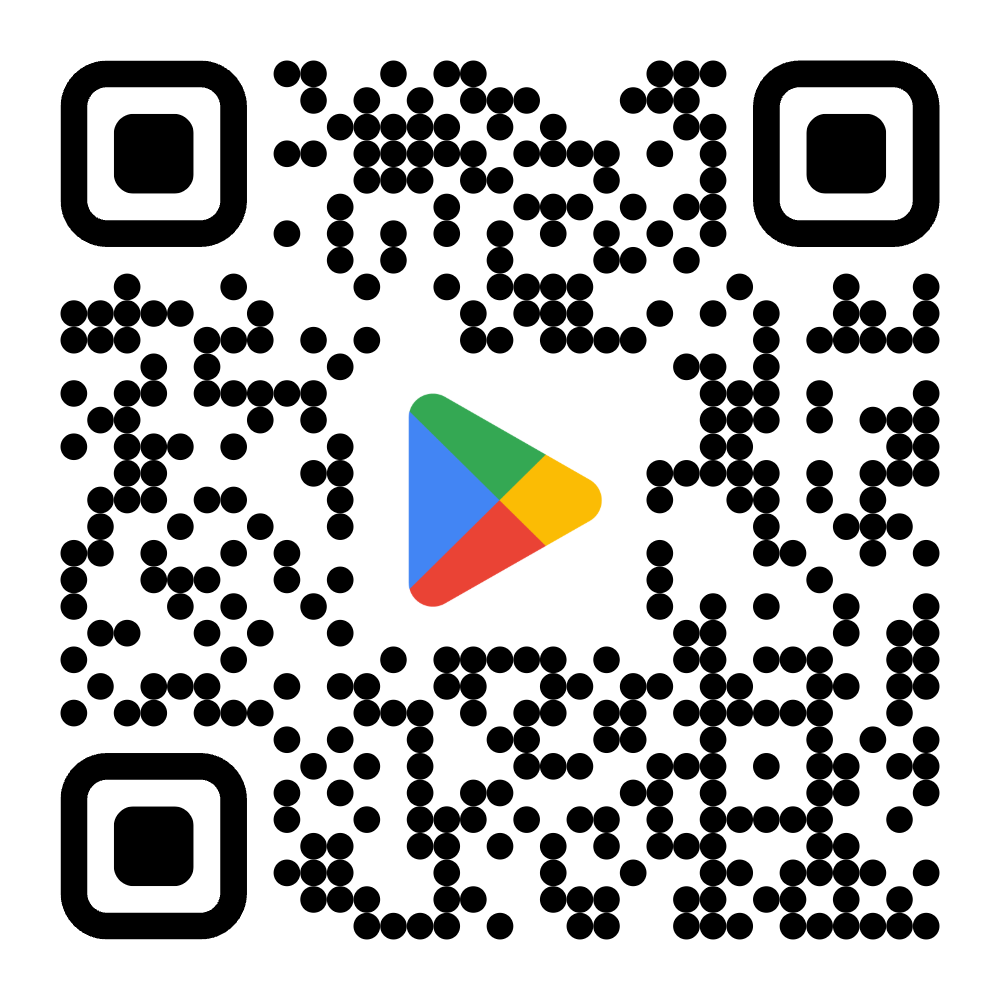
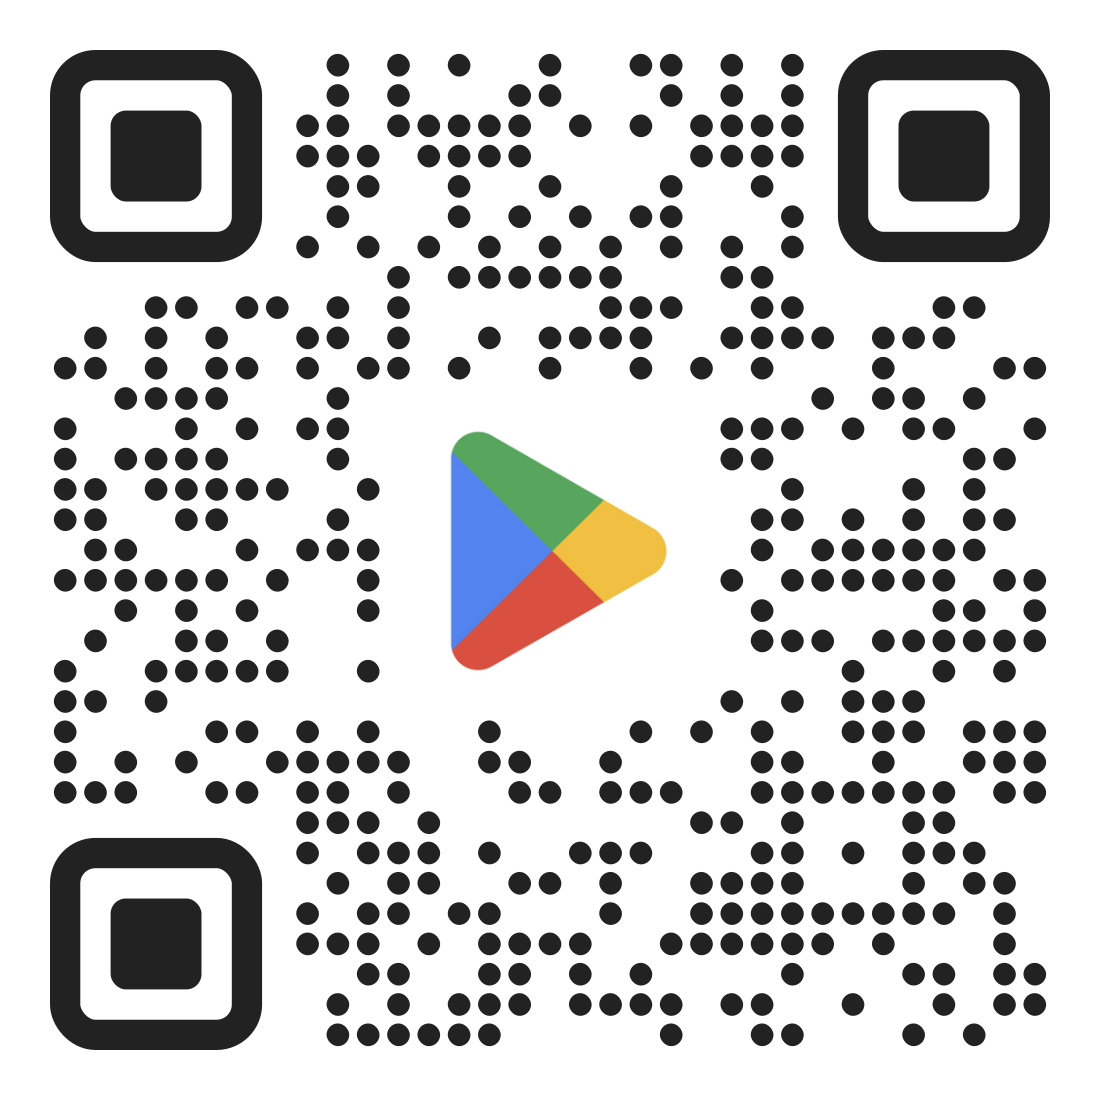
Added new qr code

diff --git a/android/build/reports/problems/problems-report.html b/android/build/reports/problems/problems-report.html
@@ -650,7 +650,7 @@ code + .copy-button {
 <script type="text/javascript">
 function configurationCacheProblems() { return (
 // begin-report-data
-{"diagnostics":[{"locations":[{"pluginId":"dev.flutter.flutter-gradle-plugin"}],"problem":[{"text":"The CopyProcessingSpec.setFileMode(Integer) method has been deprecated."}],"severity":"WARNING","problemDetails":[{"text":"This is scheduled to be removed in Gradle 9.0."}],"contextualLabel":"The CopyProcessingSpec.setFileMode(Integer) method has been deprecated.","documentationLink":"https://docs.gradle.org/8.12/userguide/upgrading_version_8.html#unix_file_permissions_deprecated","problemId":[{"name":"deprecation","displayName":"Deprecation"},{"name":"the-copyprocessingspec-setfilemode-integer-method-has-been-deprecated","displayName":"The CopyProcessingSpec.setFileMode(Integer) method has been deprecated."}],"solutions":[[{"text":"Please use the filePermissions(Action) method instead."}]]},{"locations":[{"path":"build file '/Users/ishanpatel/.pub-cache/hosted/pub.dev/device_info_plus-11.5.0/android/build.gradle'","line":1},{"path":"build file '/Users/ishanpatel/.pub-cache/hosted/pub.dev/device_info_plus-11.5.0/android/build.gradle'","line":1}],"problem":[{"text":"Space-assignment syntax in Groovy DSL has been deprecated."}],"severity":"WARNING","problemDetails":[{"text":"This is scheduled to be removed in Gradle 10.0."}],"contextualLabel":"Space-assignment syntax in Groovy DSL has been deprecated.","documentationLink":"https://docs.gradle.org/8.12/userguide/upgrading_version_8.html#groovy_space_assignment_syntax","problemId":[{"name":"deprecation","displayName":"Deprecation"},{"name":"space-assignment-syntax-in-groovy-dsl","displayName":"Space-assignment syntax in Groovy DSL has been deprecated."}],"solutions":[[{"text":"Use assignment ('group = <value>') instead."}]]},{"locations":[{"path":"build file '/Users/ishanpatel/.pub-cache/hosted/pub.dev/device_info_plus-11.5.0/android/build.gradle'","line":2},{"path":"build file '/Users/ishanpatel/.pub-cache/hosted/pub.dev/device_info_plus-11.5.0/android/build.gradle'","line":2}],"problem":[{"text":"Space-assignment syntax in Groovy DSL has been deprecated."}],"severity":"WARNING","problemDetails":[{"text":"This is scheduled to be removed in Gradle 10.0."}],"contextualLabel":"Space-assignment syntax in Groovy DSL has been deprecated.","documentationLink":"https://docs.gradle.org/8.12/userguide/upgrading_version_8.html#groovy_space_assignment_syntax","problemId":[{"name":"deprecation","displayName":"Deprecation"},{"name":"space-assignment-syntax-in-groovy-dsl","displayName":"Space-assignment syntax in Groovy DSL has been deprecated."}],"solutions":[[{"text":"Use assignment ('version = <value>') instead."}]]},{"problem":[{"text":"Space-assignment syntax in Groovy DSL has been deprecated."}],"severity":"WARNING","problemDetails":[{"text":"This is scheduled to be removed in Gradle 10.0."}],"contextualLabel":"Space-assignment syntax in Groovy DSL has been deprecated.","documentationLink":"https://docs.gradle.org/8.12/userguide/upgrading_version_8.html#groovy_space_assignment_syntax","problemId":[{"name":"deprecation","displayName":"Deprecation"},{"name":"space-assignment-syntax-in-groovy-dsl","displayName":"Space-assignment syntax in Groovy DSL has been deprecated."}],"solutions":[[{"text":"Use assignment ('compileSdk = <value>') instead."}]]},{"problem":[{"text":"Space-assignment syntax in Groovy DSL has been deprecated."}],"severity":"WARNING","problemDetails":[{"text":"This is scheduled to be removed in Gradle 10.0."}],"contextualLabel":"Space-assignment syntax in Groovy DSL has been deprecated.","documentationLink":"https://docs.gradle.org/8.12/userguide/upgrading_version_8.html#groovy_space_assignment_syntax","problemId":[{"name":"deprecation","displayName":"Deprecation"},{"name":"space-assignment-syntax-in-groovy-dsl","displayName":"Space-assignment syntax in Groovy DSL has been deprecated."}],"solutions":[[{"text":"Use assignment ('namespace = <value>') instead."}]]},{"problem":[{"text":"Space-assignment syntax in Groovy DSL has been deprecated."}],"severity":"WARNING","problemDetails":[{"text":"This is scheduled to be removed in Gradle 10.0."}],"contextualLabel":"Space-assignment syntax in Groovy DSL has been deprecated.","documentationLink":"https://docs.gradle.org/8.12/userguide/upgrading_version_8.html#groovy_space_assignment_syntax","problemId":[{"name":"deprecation","displayName":"Deprecation"},{"name":"space-assignment-syntax-in-groovy-dsl","displayName":"Space-assignment syntax in Groovy DSL has been deprecated."}],"solutions":[[{"text":"Use assignment ('minSdk = <value>') instead."}]]},{"locations":[{"path":"build file '/Users/ishanpatel/.pub-cache/hosted/pub.dev/flutter_inappwebview-5.8.0/android/build.gradle'","line":1},{"path":"build file '/Users/ishanpatel/.pub-cache/hosted/pub.dev/flutter_inappwebview-5.8.0/android/build.gradle'","line":1}],"problem":[{"text":"Space-assignment syntax in Groovy DSL has been deprecated."}],"severity":"WARNING","problemDetails":[{"text":"This is scheduled to be removed in Gradle 10.0."}],"contextualLabel":"Space-assignment syntax in Groovy DSL has been deprecated.","documentationLink":"https://docs.gradle.org/8.12/userguide/upgrading_version_8.html#groovy_space_assignment_syntax","problemId":[{"name":"deprecation","displayName":"Deprecation"},{"name":"space-assignment-syntax-in-groovy-dsl","displayName":"Space-assignment syntax in Groovy DSL has been deprecated."}],"solutions":[[{"text":"Use assignment ('group = <value>') instead."}]]},{"locations":[{"path":"build file '/Users/ishanpatel/.pub-cache/hosted/pub.dev/flutter_inappwebview-5.8.0/android/build.gradle'","line":2},{"path":"build file '/Users/ishanpatel/.pub-cache/hosted/pub.dev/flutter_inappwebview-5.8.0/android/build.gradle'","line":2}],"problem":[{"text":"Space-assignment syntax in Groovy DSL has been deprecated."}],"severity":"WARNING","problemDetails":[{"text":"This is scheduled to be removed in Gradle 10.0."}],"contextualLabel":"Space-assignment syntax in Groovy DSL has been deprecated.","documentationLink":"https://docs.gradle.org/8.12/userguide/upgrading_version_8.html#groovy_space_assignment_syntax","problemId":[{"name":"deprecation","displayName":"Deprecation"},{"name":"space-assignment-syntax-in-groovy-dsl","displayName":"Space-assignment syntax in Groovy DSL has been deprecated."}],"solutions":[[{"text":"Use assignment ('version = <value>') instead."}]]}],"problemsReport":{"totalProblemCount":8,"buildName":"android","requestedTasks":"assembleDebug","documentationLink":"https://docs.gradle.org/8.12/userguide/problems-report.html","documentationLinkCaption":"Problem report","summaries":[]}}
+{"diagnostics":[{"locations":[{"path":"build file '/Users/ishanpatel/.pub-cache/hosted/pub.dev/device_info_plus-11.5.0/android/build.gradle'","line":1},{"path":"build file '/Users/ishanpatel/.pub-cache/hosted/pub.dev/device_info_plus-11.5.0/android/build.gradle'","line":1}],"problem":[{"text":"Space-assignment syntax in Groovy DSL has been deprecated."}],"severity":"WARNING","problemDetails":[{"text":"This is scheduled to be removed in Gradle 10.0."}],"contextualLabel":"Space-assignment syntax in Groovy DSL has been deprecated.","documentationLink":"https://docs.gradle.org/8.12/userguide/upgrading_version_8.html#groovy_space_assignment_syntax","problemId":[{"name":"deprecation","displayName":"Deprecation"},{"name":"space-assignment-syntax-in-groovy-dsl","displayName":"Space-assignment syntax in Groovy DSL has been deprecated."}],"solutions":[[{"text":"Use assignment ('group = <value>') instead."}]]},{"locations":[{"path":"build file '/Users/ishanpatel/.pub-cache/hosted/pub.dev/device_info_plus-11.5.0/android/build.gradle'","line":2},{"path":"build file '/Users/ishanpatel/.pub-cache/hosted/pub.dev/device_info_plus-11.5.0/android/build.gradle'","line":2}],"problem":[{"text":"Space-assignment syntax in Groovy DSL has been deprecated."}],"severity":"WARNING","problemDetails":[{"text":"This is scheduled to be removed in Gradle 10.0."}],"contextualLabel":"Space-assignment syntax in Groovy DSL has been deprecated.","documentationLink":"https://docs.gradle.org/8.12/userguide/upgrading_version_8.html#groovy_space_assignment_syntax","problemId":[{"name":"deprecation","displayName":"Deprecation"},{"name":"space-assignment-syntax-in-groovy-dsl","displayName":"Space-assignment syntax in Groovy DSL has been deprecated."}],"solutions":[[{"text":"Use assignment ('version = <value>') instead."}]]},{"problem":[{"text":"Space-assignment syntax in Groovy DSL has been deprecated."}],"severity":"WARNING","problemDetails":[{"text":"This is scheduled to be removed in Gradle 10.0."}],"contextualLabel":"Space-assignment syntax in Groovy DSL has been deprecated.","documentationLink":"https://docs.gradle.org/8.12/userguide/upgrading_version_8.html#groovy_space_assignment_syntax","problemId":[{"name":"deprecation","displayName":"Deprecation"},{"name":"space-assignment-syntax-in-groovy-dsl","displayName":"Space-assignment syntax in Groovy DSL has been deprecated."}],"solutions":[[{"text":"Use assignment ('compileSdk = <value>') instead."}]]},{"problem":[{"text":"Space-assignment syntax in Groovy DSL has been deprecated."}],"severity":"WARNING","problemDetails":[{"text":"This is scheduled to be removed in Gradle 10.0."}],"contextualLabel":"Space-assignment syntax in Groovy DSL has been deprecated.","documentationLink":"https://docs.gradle.org/8.12/userguide/upgrading_version_8.html#groovy_space_assignment_syntax","problemId":[{"name":"deprecation","displayName":"Deprecation"},{"name":"space-assignment-syntax-in-groovy-dsl","displayName":"Space-assignment syntax in Groovy DSL has been deprecated."}],"solutions":[[{"text":"Use assignment ('namespace = <value>') instead."}]]},{"problem":[{"text":"Space-assignment syntax in Groovy DSL has been deprecated."}],"severity":"WARNING","problemDetails":[{"text":"This is scheduled to be removed in Gradle 10.0."}],"contextualLabel":"Space-assignment syntax in Groovy DSL has been deprecated.","documentationLink":"https://docs.gradle.org/8.12/userguide/upgrading_version_8.html#groovy_space_assignment_syntax","problemId":[{"name":"deprecation","displayName":"Deprecation"},{"name":"space-assignment-syntax-in-groovy-dsl","displayName":"Space-assignment syntax in Groovy DSL has been deprecated."}],"solutions":[[{"text":"Use assignment ('minSdk = <value>') instead."}]]},{"locations":[{"path":"build file '/Users/ishanpatel/.pub-cache/hosted/pub.dev/flutter_inappwebview_android-1.1.3/android/build.gradle'","line":1},{"path":"build file '/Users/ishanpatel/.pub-cache/hosted/pub.dev/flutter_inappwebview_android-1.1.3/android/build.gradle'","line":1}],"problem":[{"text":"Space-assignment syntax in Groovy DSL has been deprecated."}],"severity":"WARNING","problemDetails":[{"text":"This is scheduled to be removed in Gradle 10.0."}],"contextualLabel":"Space-assignment syntax in Groovy DSL has been deprecated.","documentationLink":"https://docs.gradle.org/8.12/userguide/upgrading_version_8.html#groovy_space_assignment_syntax","problemId":[{"name":"deprecation","displayName":"Deprecation"},{"name":"space-assignment-syntax-in-groovy-dsl","displayName":"Space-assignment syntax in Groovy DSL has been deprecated."}],"solutions":[[{"text":"Use assignment ('group = <value>') instead."}]]},{"locations":[{"path":"build file '/Users/ishanpatel/.pub-cache/hosted/pub.dev/flutter_inappwebview_android-1.1.3/android/build.gradle'","line":2},{"path":"build file '/Users/ishanpatel/.pub-cache/hosted/pub.dev/flutter_inappwebview_android-1.1.3/android/build.gradle'","line":2}],"problem":[{"text":"Space-assignment syntax in Groovy DSL has been deprecated."}],"severity":"WARNING","problemDetails":[{"text":"This is scheduled to be removed in Gradle 10.0."}],"contextualLabel":"Space-assignment syntax in Groovy DSL has been deprecated.","documentationLink":"https://docs.gradle.org/8.12/userguide/upgrading_version_8.html#groovy_space_assignment_syntax","problemId":[{"name":"deprecation","displayName":"Deprecation"},{"name":"space-assignment-syntax-in-groovy-dsl","displayName":"Space-assignment syntax in Groovy DSL has been deprecated."}],"solutions":[[{"text":"Use assignment ('version = <value>') instead."}]]},{"problem":[{"text":"Space-assignment syntax in Groovy DSL has been deprecated."}],"severity":"WARNING","problemDetails":[{"text":"This is scheduled to be removed in Gradle 10.0."}],"contextualLabel":"Space-assignment syntax in Groovy DSL has been deprecated.","documentationLink":"https://docs.gradle.org/8.12/userguide/upgrading_version_8.html#groovy_space_assignment_syntax","problemId":[{"name":"deprecation","displayName":"Deprecation"},{"name":"space-assignment-syntax-in-groovy-dsl","displayName":"Space-assignment syntax in Groovy DSL has been deprecated."}],"solutions":[[{"text":"Use assignment ('namespace = <value>') instead."}]]},{"problem":[{"text":"Space-assignment syntax in Groovy DSL has been deprecated."}],"severity":"WARNING","problemDetails":[{"text":"This is scheduled to be removed in Gradle 10.0."}],"contextualLabel":"Space-assignment syntax in Groovy DSL has been deprecated.","documentationLink":"https://docs.gradle.org/8.12/userguide/upgrading_version_8.html#groovy_space_assignment_syntax","problemId":[{"name":"deprecation","displayName":"Deprecation"},{"name":"space-assignment-syntax-in-groovy-dsl","displayName":"Space-assignment syntax in Groovy DSL has been deprecated."}],"solutions":[[{"text":"Use assignment ('compileSdk = <value>') instead."}]]},{"locations":[{"path":"build file '/Users/ishanpatel/.pub-cache/hosted/pub.dev/path_provider_android-2.2.18/android/build.gradle'","line":1},{"path":"build file '/Users/ishanpatel/.pub-cache/hosted/pub.dev/path_provider_android-2.2.18/android/build.gradle'","line":1}],"problem":[{"text":"Space-assignment syntax in Groovy DSL has been deprecated."}],"severity":"WARNING","problemDetails":[{"text":"This is scheduled to be removed in Gradle 10.0."}],"contextualLabel":"Space-assignment syntax in Groovy DSL has been deprecated.","documentationLink":"https://docs.gradle.org/8.12/userguide/upgrading_version_8.html#groovy_space_assignment_syntax","problemId":[{"name":"deprecation","displayName":"Deprecation"},{"name":"space-assignment-syntax-in-groovy-dsl","displayName":"Space-assignment syntax in Groovy DSL has been deprecated."}],"solutions":[[{"text":"Use assignment ('group = <value>') instead."}]]},{"locations":[{"path":"build file '/Users/ishanpatel/.pub-cache/hosted/pub.dev/path_provider_android-2.2.18/android/build.gradle'","line":2},{"path":"build file '/Users/ishanpatel/.pub-cache/hosted/pub.dev/path_provider_android-2.2.18/android/build.gradle'","line":2}],"problem":[{"text":"Space-assignment syntax in Groovy DSL has been deprecated."}],"severity":"WARNING","problemDetails":[{"text":"This is scheduled to be removed in Gradle 10.0."}],"contextualLabel":"Space-assignment syntax in Groovy DSL has been deprecated.","documentationLink":"https://docs.gradle.org/8.12/userguide/upgrading_version_8.html#groovy_space_assignment_syntax","problemId":[{"name":"deprecation","displayName":"Deprecation"},{"name":"space-assignment-syntax-in-groovy-dsl","displayName":"Space-assignment syntax in Groovy DSL has been deprecated."}],"solutions":[[{"text":"Use assignment ('version = <value>') instead."}]]},{"problem":[{"text":"Space-assignment syntax in Groovy DSL has been deprecated."}],"severity":"WARNING","problemDetails":[{"text":"This is scheduled to be removed in Gradle 10.0."}],"contextualLabel":"Space-assignment syntax in Groovy DSL has been deprecated.","documentationLink":"https://docs.gradle.org/8.12/userguide/upgrading_version_8.html#groovy_space_assignment_syntax","problemId":[{"name":"deprecation","displayName":"Deprecation"},{"name":"space-assignment-syntax-in-groovy-dsl","displayName":"Space-assignment syntax in Groovy DSL has been deprecated."}],"solutions":[[{"text":"Use assignment ('namespace = <value>') instead."}]]},{"problem":[{"text":"Space-assignment syntax in Groovy DSL has been deprecated."}],"severity":"WARNING","problemDetails":[{"text":"This is scheduled to be removed in Gradle 10.0."}],"contextualLabel":"Space-assignment syntax in Groovy DSL has been deprecated.","documentationLink":"https://docs.gradle.org/8.12/userguide/upgrading_version_8.html#groovy_space_assignment_syntax","problemId":[{"name":"deprecation","displayName":"Deprecation"},{"name":"space-assignment-syntax-in-groovy-dsl","displayName":"Space-assignment syntax in Groovy DSL has been deprecated."}],"solutions":[[{"text":"Use assignment ('checkAllWarnings = <value>') instead."}]]},{"problem":[{"text":"Space-assignment syntax in Groovy DSL has been deprecated."}],"severity":"WARNING","problemDetails":[{"text":"This is scheduled to be removed in Gradle 10.0."}],"contextualLabel":"Space-assignment syntax in Groovy DSL has been deprecated.","documentationLink":"https://docs.gradle.org/8.12/userguide/upgrading_version_8.html#groovy_space_assignment_syntax","problemId":[{"name":"deprecation","displayName":"Deprecation"},{"name":"space-assignment-syntax-in-groovy-dsl","displayName":"Space-assignment syntax in Groovy DSL has been deprecated."}],"solutions":[[{"text":"Use assignment ('warningsAsErrors = <value>') instead."}]]}],"problemsReport":{"totalProblemCount":14,"buildName":"android","requestedTasks":"assembleDebug","documentationLink":"https://docs.gradle.org/8.12/userguide/problems-report.html","documentationLinkCaption":"Problem report","summaries":[]}}
 // end-report-data
 );}
 </script>

diff --git a/lib/main.dart b/lib/main.dart
@@ -3,7 +3,6 @@ import 'package:flutter/cupertino.dart';
 import 'package:discover_the_gospel/sharedstate.dart';
 import 'package:flutter/services.dart';
 
-
 // Import screens
 import 'package:discover_the_gospel/gui/screens/navigation/pdf.dart';
 import 'package:discover_the_gospel/gui/screens/navigation/share.dart';

diff --git a/android/app/src/main/kotlin/com/holostudios/discoverthegospel/discover_the_gospel/MainActivity.kt b/android/app/src/main/kotlin/com/holostudios/discoverthegospel/discover_the_gospel/MainActivity.kt
@@ -1,0 +1,5 @@
+package com.holostudios.discoverthegospel.discover_the_gospel
+
+import io.flutter.embedding.android.FlutterActivity
+
+class MainActivity : FlutterActivity()
